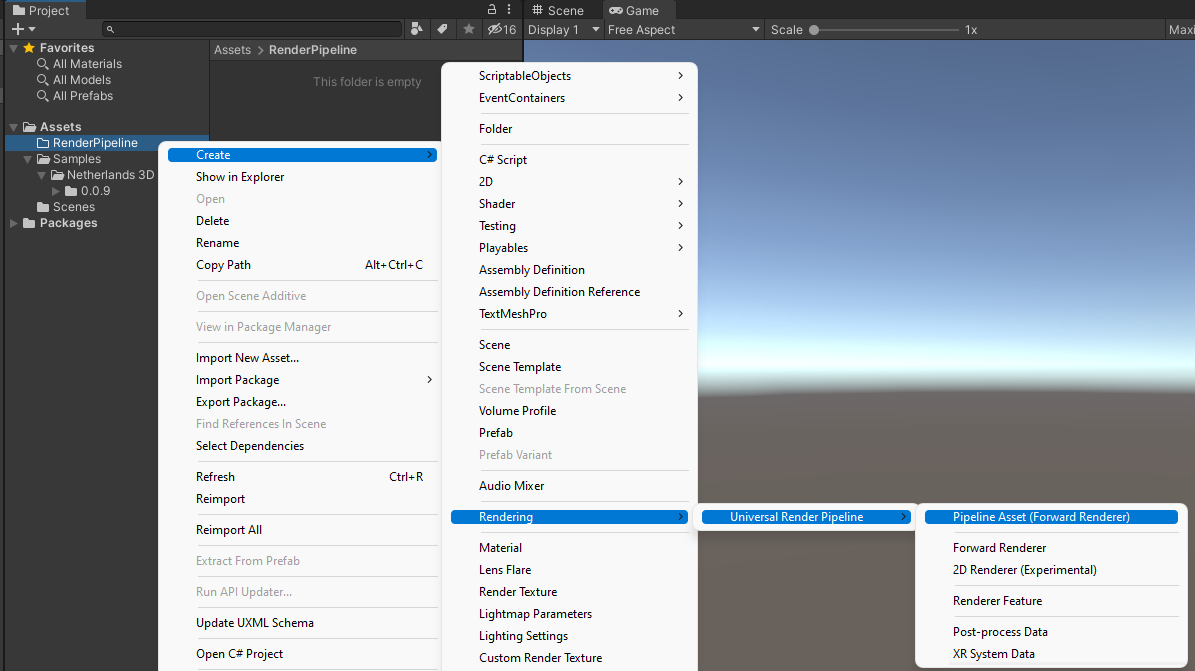
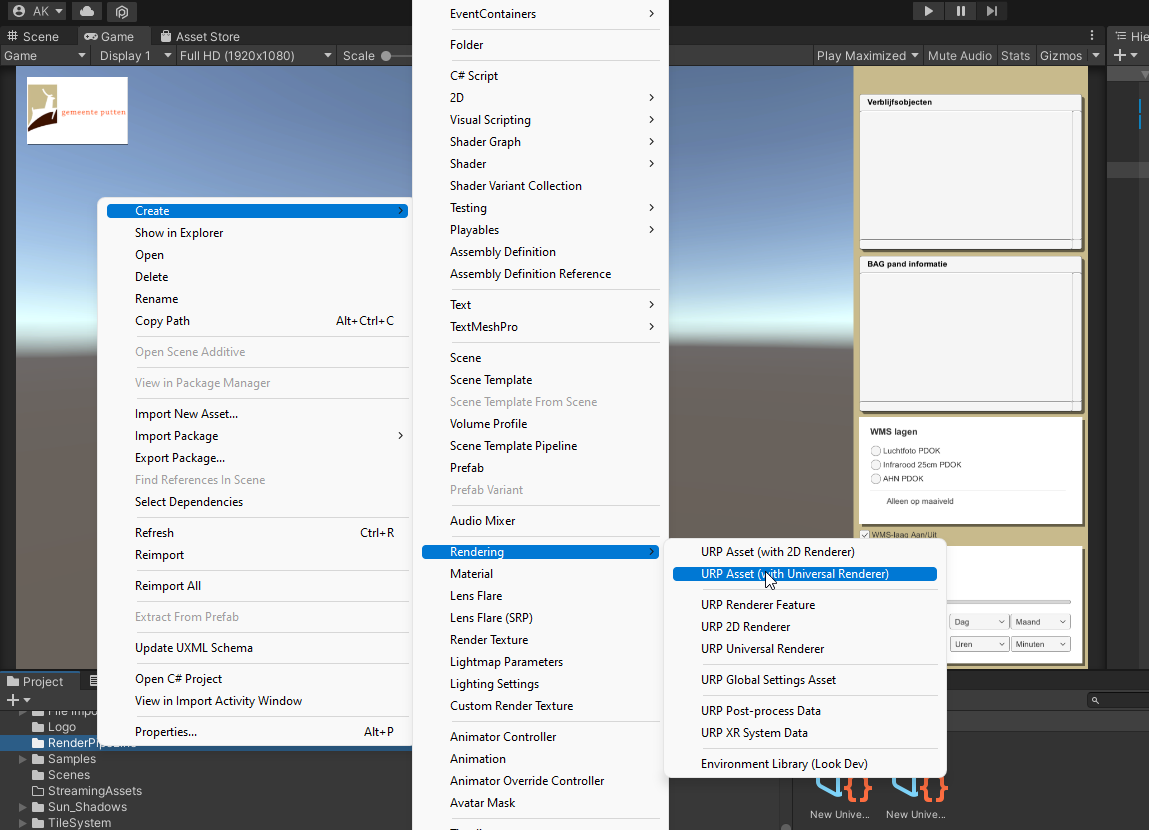
basis in één uur toegevoegd

diff --git a/PackageUserManual/Dutch/basis_ineenuur.md b/PackageUserManual/Dutch/basis_ineenuur.md
@@ -1,0 +1,149 @@
+# Basis in een uur
+
+Naast het beginnen vanaf een nieuw project om daar samples van de package in te laden, bieden we nu ook een basis layout aan, waar de volgende samples uit de package al in zitten:
+
+- Freecamera
+- Sun
+- Tilehandler
+- BAGBuildingDataLoader
+- BAGResidenceDataLoader
+- wmsLayerManager
+- Eenvoudige layout met canvas Group voor automatisch uitlijnen vensters
+- plek voor eigen logo
+
+
+
+## Repository opzetten
+
+Hiervoor heb je een git-client nodig, zoals [tortoise](https://tortoisegit.org/download/) (uitgebreid) of [Github Desktop](https://desktop.github.com/) (eenvoudig). download en installeer één van deze en ga naar de website waar je repositories kan maken (in dit geval Gitlab).
+
+Maak een nieuwe repository aan.
+
+*![img](./imgs/basis/image1.png)*
+
+*New project/repository*
+
+Klik op blank project.
+
+*![img](./imgs/basis/image2.png)*
+
+Vul hier een project naam en andere gegevens in....let op dat je in ieder geval een README file aanvinkt. Public of private is een eigen keus, maar de beste is natuurlijk public (om deze reden is Netherlands 3D ook public).
+
+*![img](./imgs/basis/image3.png)*
+
+Klik op create project en we zijn zover dat we de (cloud) omgeving kunnen gaan clonen naar je lokale machine.
+
+*![img](./imgs/basis/image4.png)*
+
+In mijn geval gebruik in de SSH versie, omdat ik een Putty-key geïnstalleerd heb (extra beveiligingssleutel, zodat je weet dat je alleen van deze site iets up- of download). Klik op "copy URL" en ga naar een verkenner in windows op de plek waar je de lokale repository wilt plaatsen.
+
+"*Deze handleiding volgt de Tortoise manier*" 
+
+Klik met de rechtermuisknop op je verkenner en kies bij Tortoise voor "clone"
+
+*![img](./imgs/basis/image5.png)*
+
+en stel de juiste namen in het venster in. "*omdat ik SSH gebruik heb ik hier load Putty Key aangevinkt*"
+
+*![img](./imgs/basis/image6.png)*
+
+klik op OK en de lokale repository wordt gebouwd.
+
+Ga naar deze website [Gitlab]([https://gitlab.com/ajkoelewijn/nwv/-/tree/main/noordwestveluwe) (donor repository) en klik op download source code.
+
+*![img](./imgs/basis/image12.png)*
+
+
+
+Pak de inhoud van map "nwv-main" uit in de map utr_netherland3d en ga naar de map in verkenner.
+
+Vanaf nu wordt het interessant. 
+
+"*Wat we nu gaan doen is de computer vertellen (aan de hand van een eerder gemaakte repository die we als donor gebruiken) welke mappen/bestanden wel en niet meegaan naar de online omgeving. Dit scheelt heel veel tijd en MB's. Geen zorgen dit gaat alleen om bestanden die Unity nodig heeft om te draaien, niet voor wijzigingen in het project.*" 
+
+Allereerst voegen we het bestand ".gitignore" toe aan de cloud repositiory. 
+
+"*LET OP! Deze handeling is de basis van het werken met Repositories.*"
+
+Ga naar de repository (in verkenner) en zoek met rechtermuisknop naar "tortoise" en "commit"
+
+*![img](./imgs/basis/image8.png)*
+
+voeg een message toe (anders kan je niet committen) en klik met rechtermuis op gitignore om het bestand aan de repo toe te voegen. 
+
+*"Het bestand "README.md" wordt direct meegenomen, omdat deze al in de repository bestond en is gewijzigd bij het kopiëren van de data uit de donormap."*
+
+*![img](./imgs/basis/image9.png)*
+
+Klik vervolgens op op commit en daarna op push om het bestandje ook daarwerkelijk te uploaden. 
+
+
+
+*![img](./imgs/basis/image10.png)*
+
+Klik op ok in het volgende venster. "Local" en "Remote" staan allebei op main.
+
+*![img](./imgs/basis/image11.png)*
+
+"*commit is zeg maar, het toevoegen van bestanden aan een database en push en pull zijn commando's voor het up- en downloaden van bestanden die in de database voorkomen*"
+
+
+
+## Project laden met data donor repository
+
+Nu gaan we een nieuw project maken in Unity hub.
+
+Maak na het installeren in de Hub een nieuw Unity project aan via 'Projects / New Project' en kies als template '3D (URP) Core'.
+
+Kies de eerder gemaakte map voor de repository basis.
+
+*![img](./imgs/basis/image13.png)*
+
+Het project wordt vervolgens automatisch geopend in Unity.
+
+Nu kunnen we de mappen "Assets", "Packages", "ProjectSettings" en "UserSettings" kopiëren uit de zip file naar de project map.
+
+*![img](./imgs/basis/image14.png)*
+
+
+
+*![img](./imgs/basis/image15.png)*
+
+
+
+Ga weer naar de Unity omgeving en zoek in de scene map naar de scene NWV. Open deze en klik met de rechtermuis op de naam in de Hierarchy en kies voor "Save Scene As" kies een naam (in dit geval Utrecht) en zet de Scene in de map "Scenes"
+
+*![img](./imgs/basis/image16.png)*
+
+
+
+Nu kan de donorscene weggegooid worden.
+
+*![img](./imgs/basis/image17.png)*
+
+Controleer of de scene werkt door op play te drukken. Er verschijnen dan tegels van NoordWestVeluwe, maar dat fixen we in de volgende paragraaf. Sluit de play mode weer af.
+
+De enige stap is nog om lighting instellingen goed te zetten.
+
+Klik op "Window" en "Rendering" en kies voor "lighting"
+
+*![img](./imgs/basis/image18.png)*
+
+Kies daarna voor "New Lighting Settings". Unity maakt dan een light setting aan die gebruikt wordt in de playmode.
+
+*![img](./imgs/basis/image19.png)*
+
+Als je dit hebt gedaan klik dan op het tabje "Environment"
+
+*![img](./imgs/basis/image20.png)*
+
+Klik op het rondje rechts van "Sun Source" en kies in "Scene" voor "Directional Light"
+
+*![img](./imgs/basis/image21.png)*
+
+
+
+## Eigen Data koppelen
+
+De scene werkt nu met gegevens voor NoordwestVeluwe, maar je wilt natuurlijk eigen data koppelen. Hiervoor kunnen we weer gebruik maken van de handleiding [Datakoppelen.md](https://github.com/Amsterdam/Netherlands3D/blob/main/PackageUserManual/Dutch/DataKoppelen.md)
+

diff --git a/PackageUserManual/Dutch/Beginnen.md b/PackageUserManual/Dutch/Beginnen.md
@@ -27,7 +27,7 @@ Ga eventueel akkoord met het activeren van een 'FREE personal license'.
 
 Kies in het 'Install Unity Editor' scherm rechtsonderin 'skip installation'. Wij willen namelijk een specifieke versie gaan installeren.
 
-Installeer via 'Installs / Install Editor' de LTS (long term service) versie 2020.3.28f1
+Installeer via 'Installs / Install Editor' de LTS (long term service) versie 2021.3.6f1
 
 ![image-20220509104007559](./imgs/beginnen/image0.png)
 
@@ -79,7 +79,7 @@ Nu maken we in de Assets map een nieuwe map aan met de naam "RenderPipeline" (le
 
 ![](./imgs/beginnen/image8.png)
 
-Geef een rechter-muisklik op deze nieuwe map en kies voor CreateRenderingUniversal Render PipelineAsset (Forward Renderer)
+Geef een rechter-muisklik op deze nieuwe map en kies via create > rendering > voor URP Asset (with Universal Renderer).
 
 ![](./imgs/beginnen/image9.png)
 

diff --git a/PackageUserManual/Dutch/DataKoppelen.md b/PackageUserManual/Dutch/DataKoppelen.md
@@ -30,4 +30,4 @@ Wijzig de coördinaten in {x} en {y}, zoals hierboven te zien is en wijzig alle 
 
 Wijzig dan alleen het lod getal in de regel naar de gewenste.
 
-Herhaal deze handeling ook voor de gebouwen en wanneer alle paden correct zijn ingevuld, kan je op play drukken. Als het goed is zie je dan de terreinen en gebouwen van je eigen gebied in beeld. Het kan zijn dat de camera nog niet helemaal goed staat. Kijk daarvoor in de handleiding 'Camera.md'
+Herhaal deze handeling ook voor de gebouwen (hier zelfs twee keer voor verschillende LOD's) en wanneer alle paden correct zijn ingevuld, kan je op play drukken. Als het goed is zie je dan de terreinen en gebouwen van je eigen gebied in beeld. Het kan zijn dat de camera nog niet helemaal goed staat. Kijk daarvoor in de handleiding 'Camera.md'
